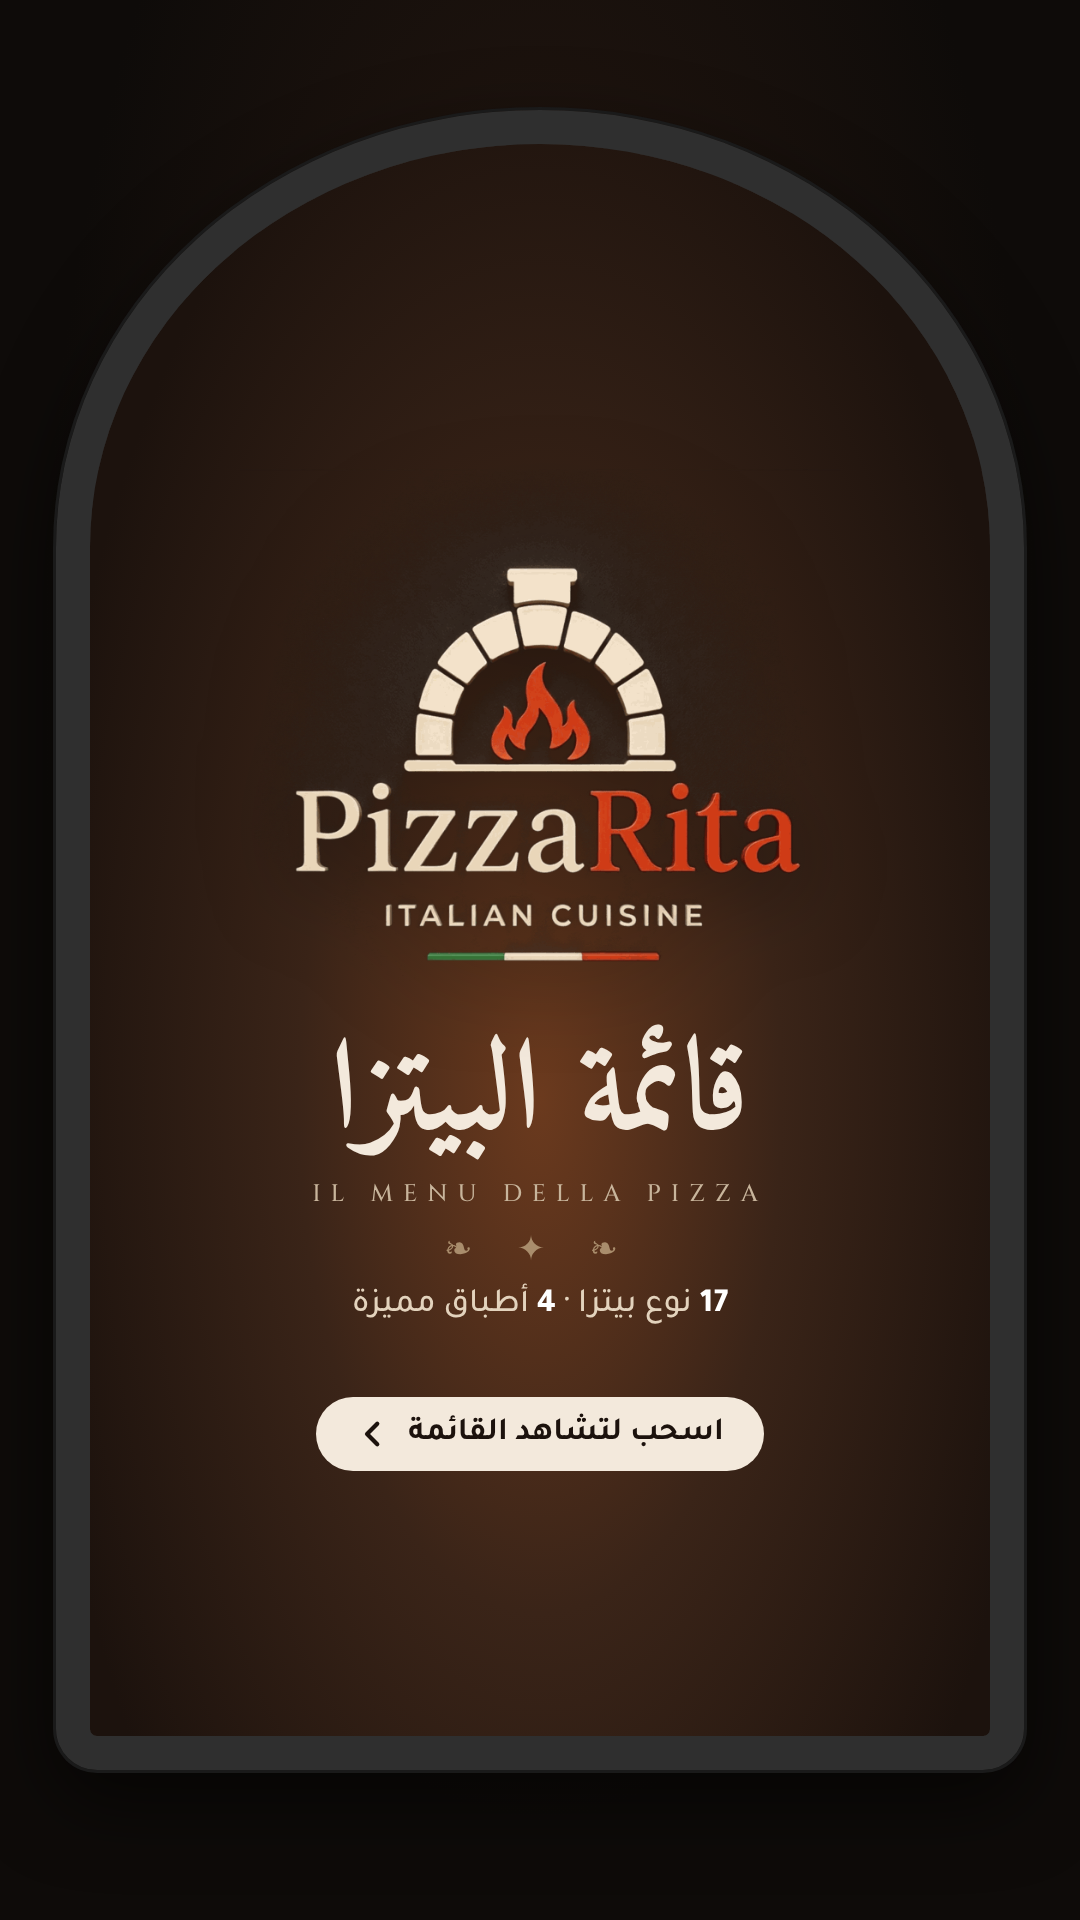
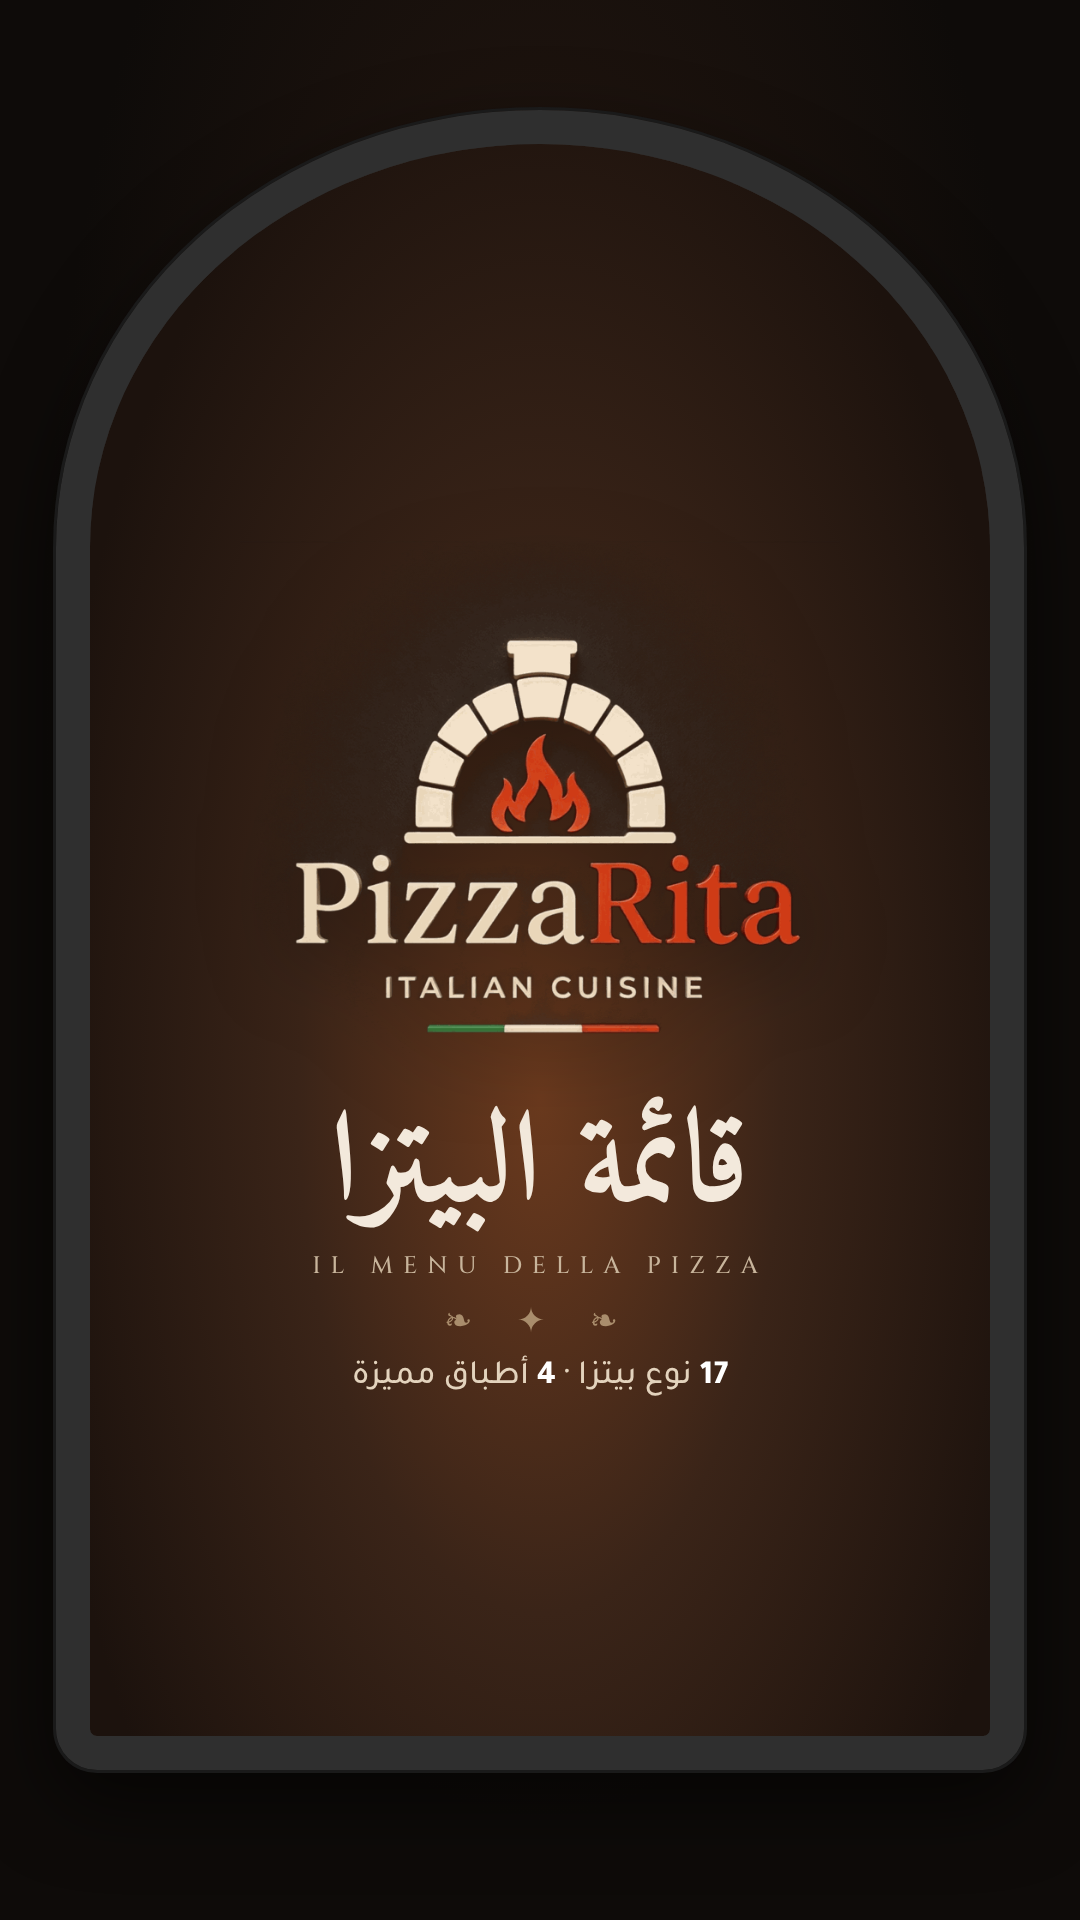
Remove swipe button from story cover
Claude-Session: https://claude.ai/code/session_01MUKyuqRDXBQd9pGTQn3E2V

Changed region(s): [[0.275, 0.2812, 0.7333, 0.7812]]

diff --git a/src/menu/stories/stories.html b/src/menu/stories/stories.html
@@ -88,12 +88,6 @@
     .cover-in .orn { font-size: 34px; color: #a98d6c; letter-spacing: 18px; margin: 18px 0 10px; }
     .cover-in .tag { font: 500 34px var(--f-body); color: #e3d3bd; }
     .cover-in .tag b { color: #fff; font-weight: 800; }
-    .swipe {
-      margin-top: 70px; display: inline-flex; align-items: center; gap: 18px;
-      font: 700 32px var(--f-body); color: var(--dark); background: #f3e9dc;
-      padding: 18px 40px; border-radius: 60px;
-    }
-    .swipe svg { width: 34px; height: 34px; }
 
     /* ---------- specials ---------- */
     .spec { flex: 1; display: flex; flex-direction: column; justify-content: space-evenly; padding-bottom: 10px; }
@@ -216,7 +210,6 @@
     const CHILI = '<svg viewBox="0 0 40 40" aria-label="حار"><path d="M27 6c1 3 0 5-2 6" fill="none" stroke="#4f8a4a" stroke-width="3" stroke-linecap="round"/><path d="M25 11c4 2 5 7 2 12-4 7-12 11-20 11 6-3 10-8 11-14 1-5 3-9 7-9z" fill="#c4472c"/><path d="M14 27c3-2 6-6 7-10" fill="none" stroke="#fff" stroke-opacity=".45" stroke-width="2" stroke-linecap="round"/></svg>';
     const LEAF = '<svg viewBox="0 0 40 40" aria-label="نباتي"><path d="M33 7C18 7 8 14 8 26c0 3 1 5 2 7 2-9 8-15 16-19-7 5-12 11-14 20 13 0 21-9 21-27z" fill="#4f8a4a"/></svg>';
     const PIN = '<svg viewBox="0 0 40 40"><path d="M20 3c-7 0-12 5-12 12 0 9 12 22 12 22s12-13 12-22c0-7-5-12-12-12z" fill="#c4472c"/><circle cx="20" cy="15" r="5" fill="#f6f1ea"/></svg>';
-    const ARROW = '<svg viewBox="0 0 40 40"><path d="M25 8 13 20l12 12" fill="none" stroke="currentColor" stroke-width="5" stroke-linecap="round" stroke-linejoin="round"/></svg>';
 
     const chips = (ing, any) => '<div class="chips">' + ing.map((x) =>
       '<span class="chip' + (any ? ' any' : /مضاعف/.test(x) ? ' x2' : '') + '">' + x + '</span>').join('') + '</div>';
@@ -272,7 +265,6 @@
         '<img src="logo.png" alt="Pizza Rita">' +
         '<h1>قائمة البيتزا</h1><div class="lat">IL MENU DELLA PIZZA</div><div class="orn">❧ ✦ ❧</div>' +
         '<div class="tag"><b>' + PIZZAS.length + '</b> نوع بيتزا · <b>' + SPECIALS.length + '</b> أطباق مميزة</div>' +
-        '<div class="swipe">اسحب لتشاهد القائمة ' + ARROW + '</div>' +
         '</div></div></section>';
     }
 
